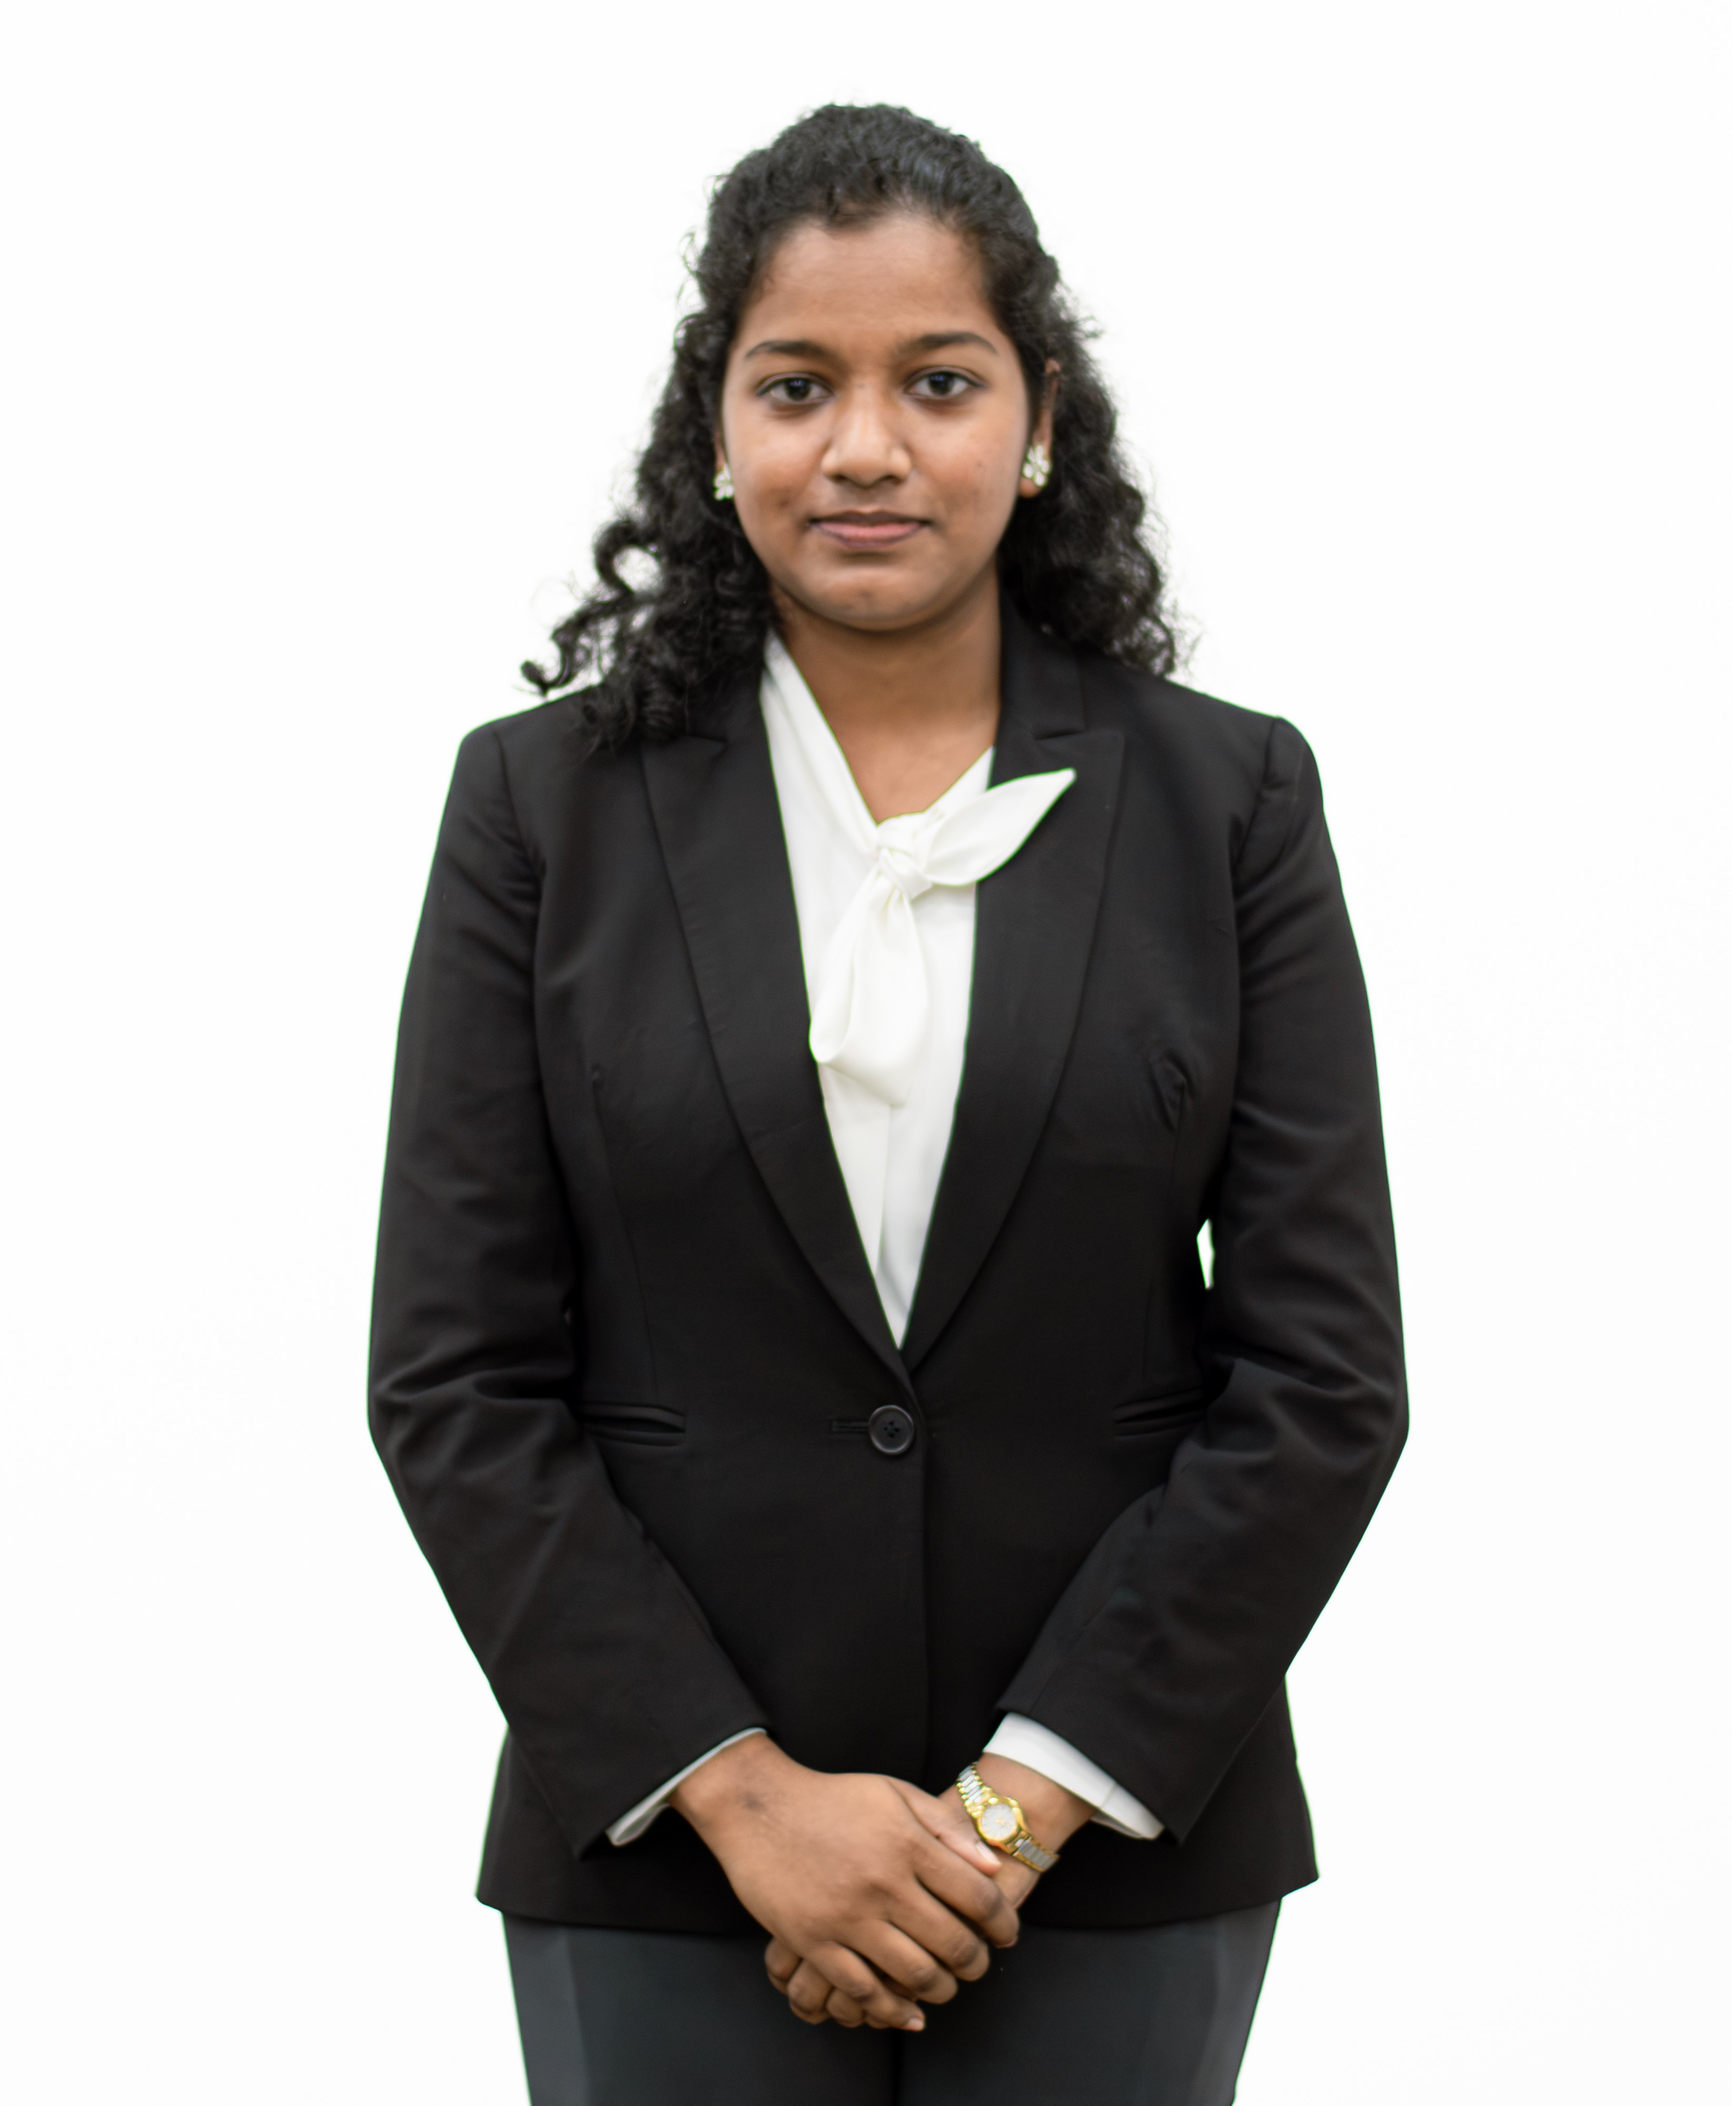
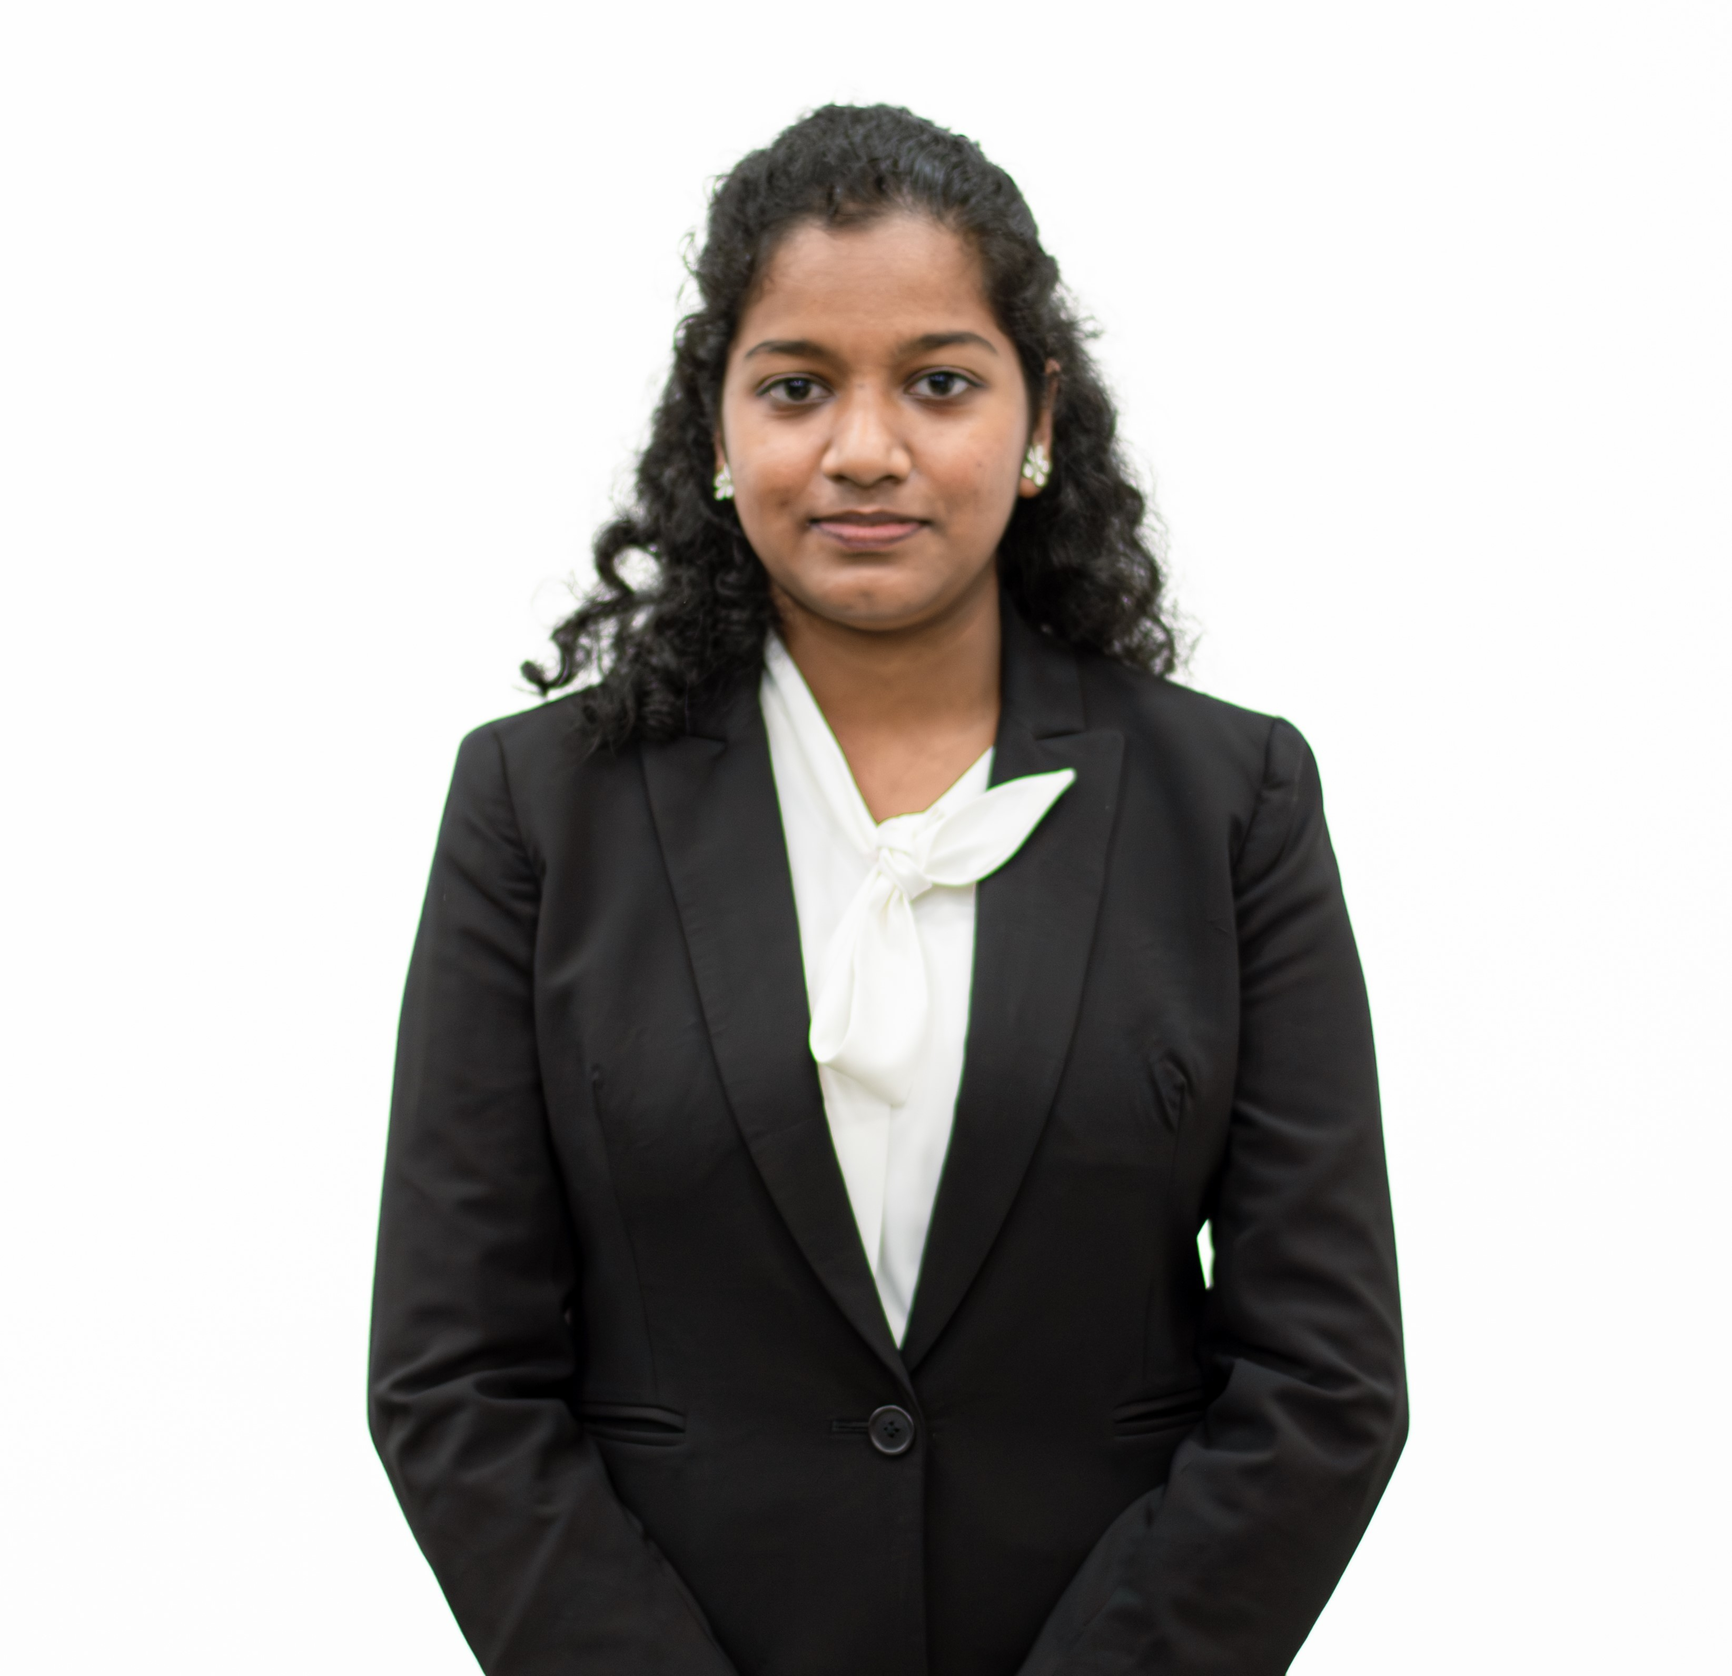
Add LinkedIn URLs for team members in Team component

Changed region(s): [[0.1861, 0.0311, 0.8373, 1.0], [0.4032, 0.9642, 0.4342, 1.0], [0.5582, 0.9953, 0.5892, 1.0]]

diff --git a/src/components/Team.jsx b/src/components/Team.jsx
@@ -13,33 +13,39 @@ export default function Team() {
     {
       name: "Dayanita Goonewardane",
       position: "Chairperson",
-      imgUrl: Dayanita
+      imgUrl: Dayanita,
+      linkedinUrl: "https://www.linkedin.com/in/dayanita-goonewardanerdane-9a29672ab?utm_source=share_via&utm_content=profile&utm_medium=member_android"
     },
     {
       name: "Savidya Deneth",
       position: "Vice Chairperson",
-      imgUrl: Savidya
+      imgUrl: Savidya,
+      linkedinUrl: "http://www.linkedin.com/in/savidya-deneth-542200361"
     },
     {
       name: "Sanuli Samarasinghe",
       position: "Secretary",
-      imgUrl: Sanuli
+      imgUrl: Sanuli,
+      linkedinUrl: "https://lk.linkedin.com/in/sanuli-samarasinghe-335536326"
     },
     {
       name: "Sakithma Rajapaksha",
       position: "Treasurer",
       imgUrl: Sakithma,
-      imgClass: "lg:object-top"
+      imgClass: "lg:object-top",
+      linkedinUrl: "http://www.linkedin.com/in/sakithma-rajapaksha-85a274343"
     },
     {
       name: "Kaveesha Rahubadda",
       position: "Editor",
-      imgUrl: Kaveesha
+      imgUrl: Kaveesha,
+      linkedinUrl: "https://www.linkedin.com/in/kaveesha-rahubadda?utm_source=share_via&utm_content=profile&utm_medium=member_android"
     },
     {
       name: "Indumini Minradha",
       position: "Assistant Secretary",
-      imgUrl: Indumini
+      imgUrl: Indumini,
+      linkedinUrl: "https://www.linkedin.com/in/indumini-minradha-02b4b7377?utm_source=share_via&utm_content=profile&utm_medium=member_ios"
     }
   ];
 
@@ -56,7 +62,7 @@ export default function Team() {
         <div class="mx-auto grid grid-cols-1 gap-6 md:grid-cols-2 lg:grid-cols-3 pb-24">
           {members.map((member, index) => (
             <article key={index} class="rounded-xl bg-white p-3 shadow-lg hover:shadow-xl hover:scale-110 transform translate duration-300">
-              <a href="#">
+              <a href={member.linkedinUrl} target="_blank" rel="noopener noreferrer">
                 <div class="relative flex items-end overflow-hidden rounded-xl bg-gray-50">
                   <img src={member.imgUrl} alt={`${member.name} - ${member.position}`} className={`w-full h-80 object-cover object-top ${member.imgClass || "lg:object-[center_10%]"}`} />
                 </div>
